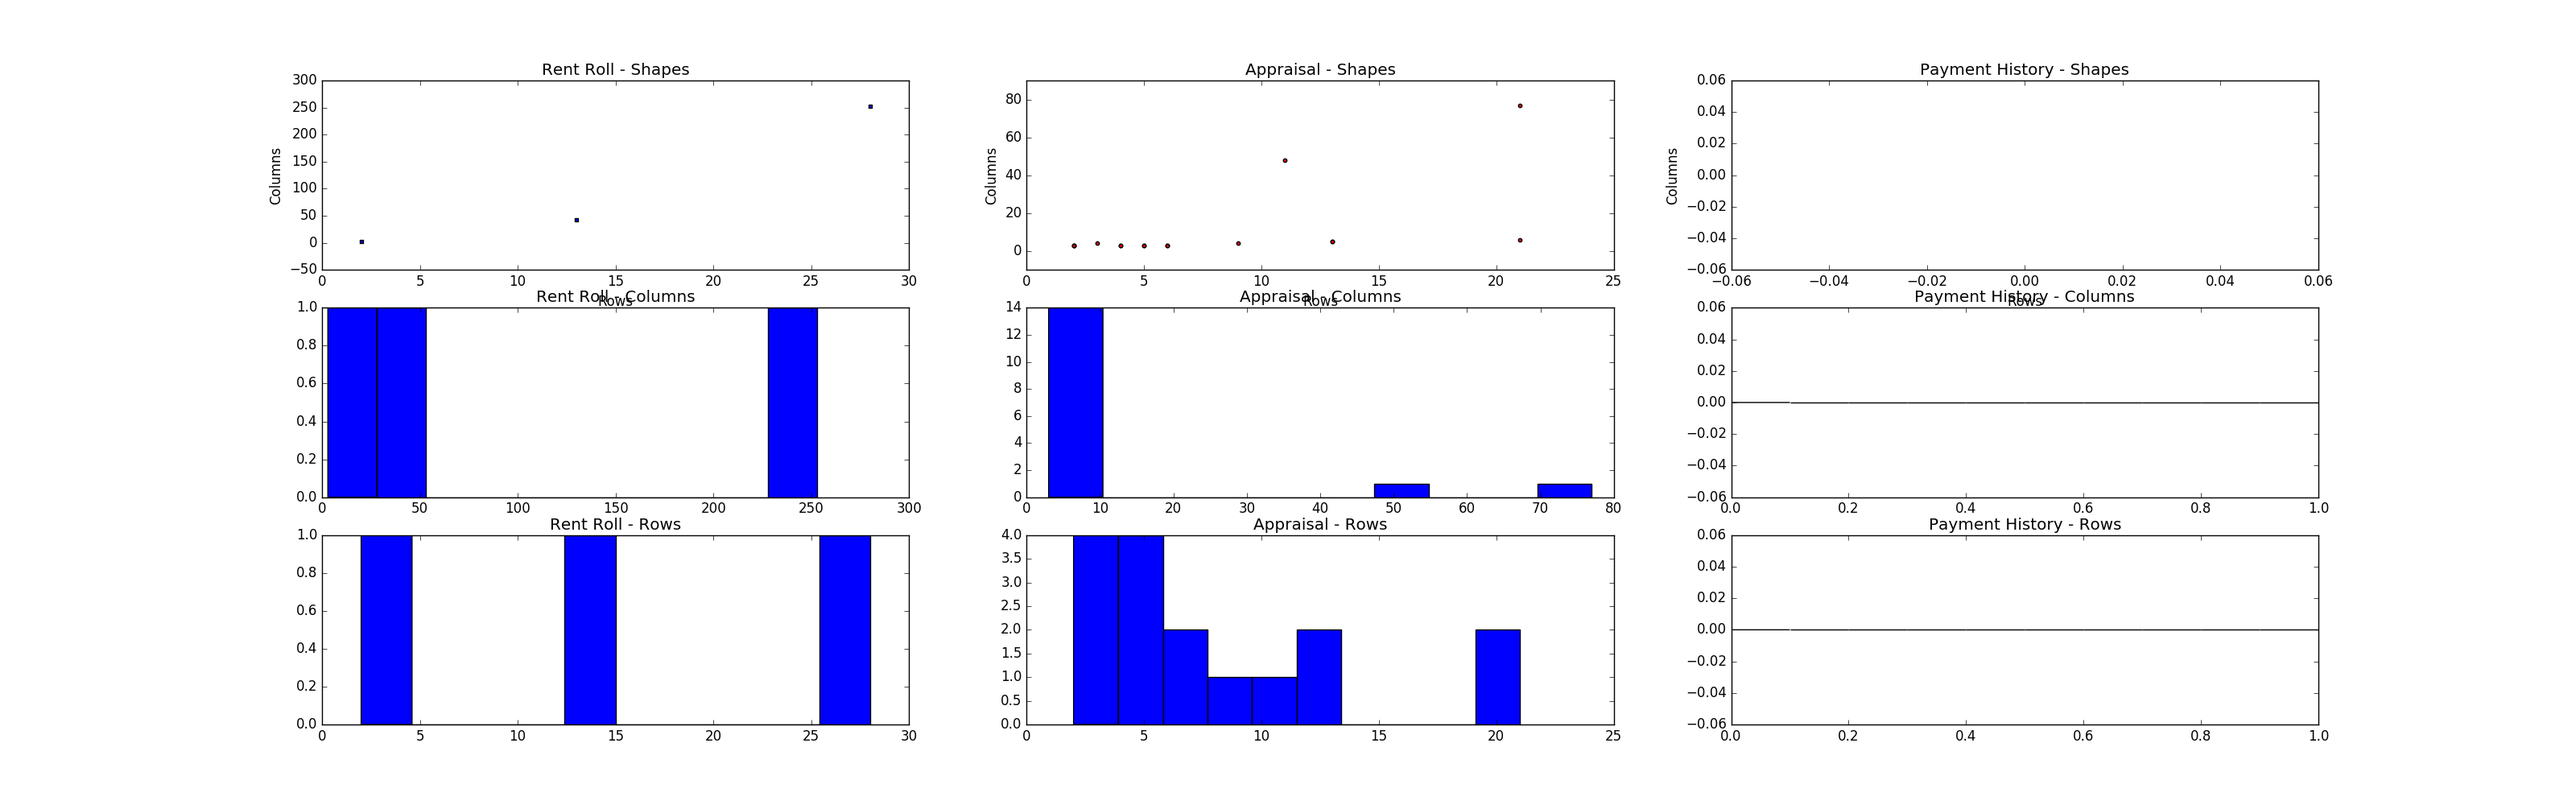
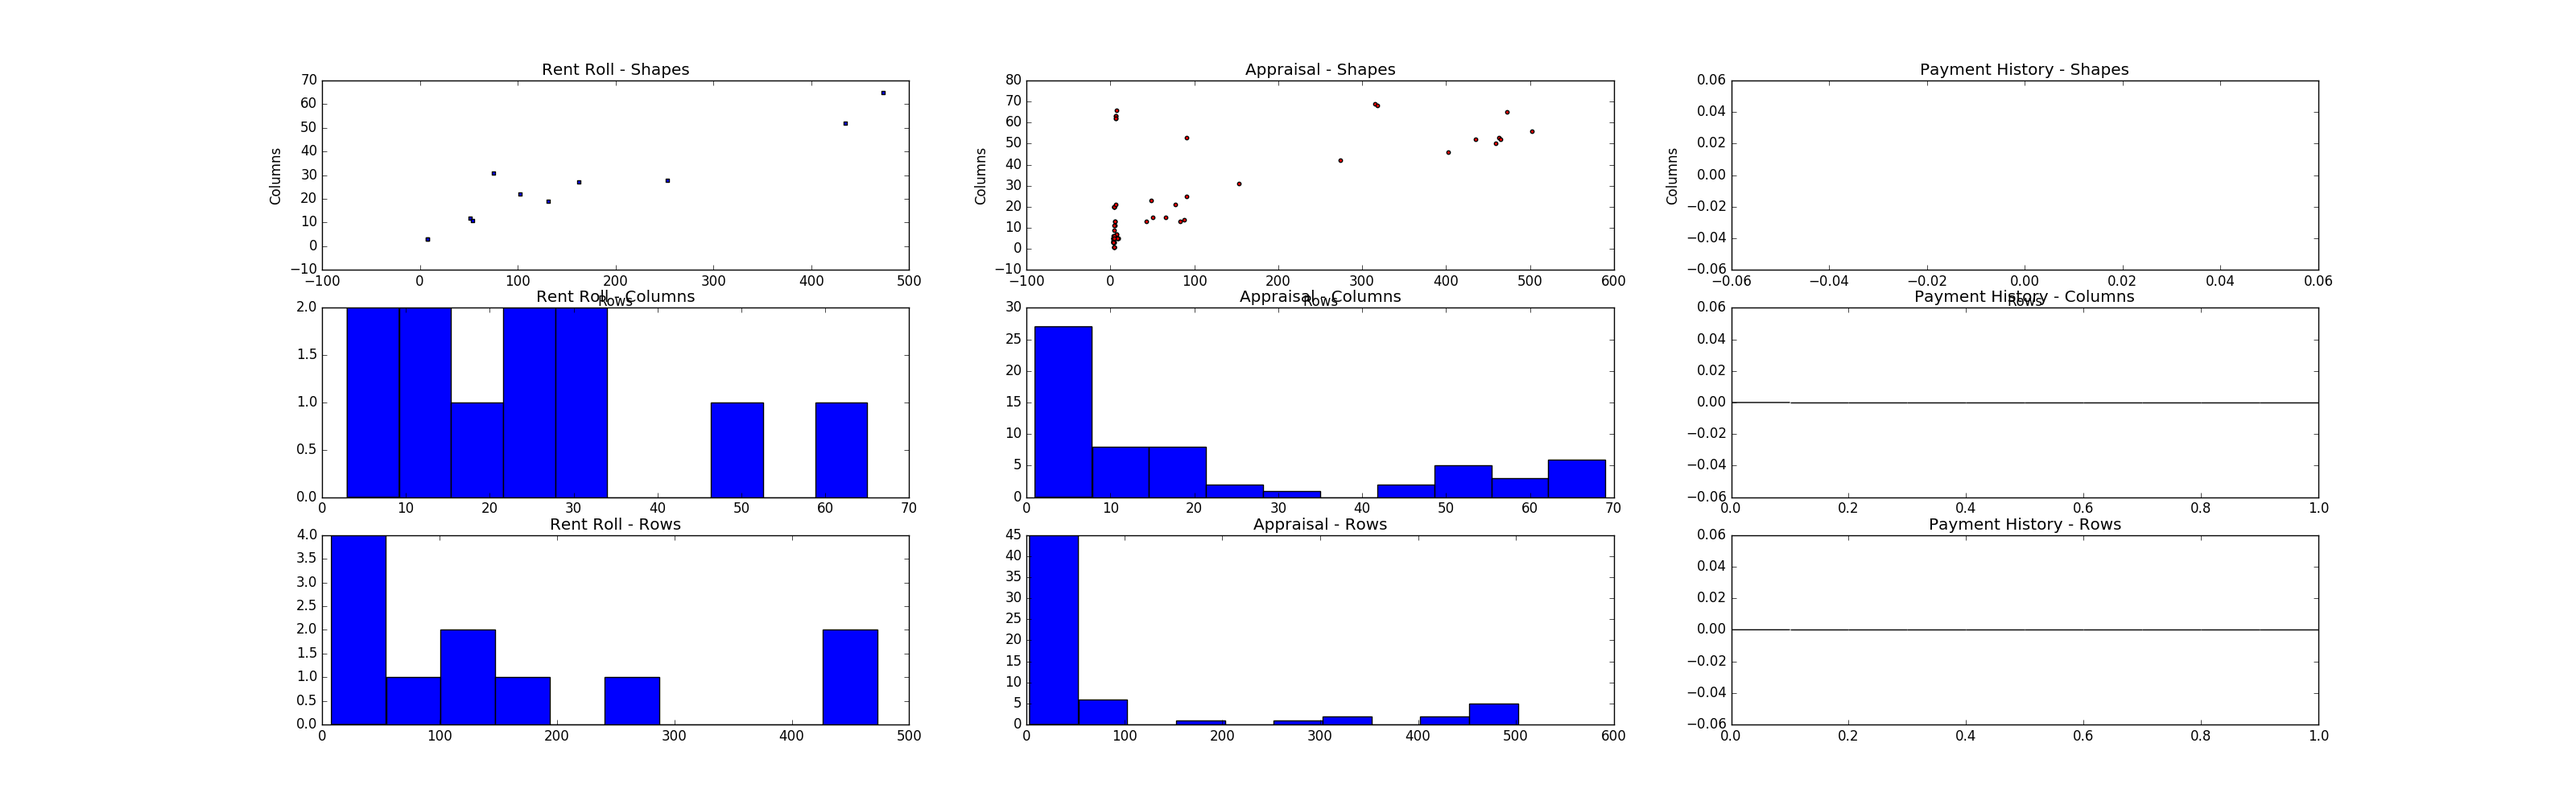
find in cell instead of row

diff --git a/test/test.html b/test/test.html
@@ -64,7 +64,7 @@
 			<td>13</td>
 		</tr>
 		<tr>
-			<td>rent roll</td>
+			<td>Rent Roll</td>
 			<td>22</td>
 			<td>23</td>
 		</tr>
@@ -160,7 +160,7 @@
 			<td>13</td>
 		</tr>
 		<tr>
-			<td>appraisal</td>
+			<td>Appraisal</td>
 			<td>22</td>
 			<td>23</td>
 		</tr>
@@ -255,7 +255,7 @@
 			<td>13</td>
 		</tr>
 		<tr>
-			<td>payment history</td>
+			<td>Payment History</td>
 			<td>22</td>
 			<td>23</td>
 		</tr>

diff --git a/tu.py b/tu.py
@@ -16,12 +16,12 @@ error_count = 0
 file_count = 0
 
 # If row contains name set the Flag to True
-def match_name( name, row_str, flag ):
-	# Don't check contains in row if flag is already true
+def match_name( name, cell_str, flag ):
+	# Don't check contains in cell if flag is already true
 	if flag:
 		return True
 	else:
-		if name in row_str:
+		if name in cell_str:
 			return True
 		else:
 			return False 
@@ -35,59 +35,66 @@ for root, dirs, files in os.walk("/Users/debajyotiroy/Ingest/Staging"):
 		if file_count >= FILES_TO_PROCESS:
 			break
 		# For a html file
-		if file.endswith(".html"):
+		if file.endswith(".html") or file.endswith(".htm"):
 			loc = os.path.join(root, file)
 			# Show progress
 			sys.stdout.write('|')
 			sys.stdout.flush()
 
 			with open(loc) as f:
-				try:
+				
 					file_count += 1
 					# extract tables from html 
 					bs_tables = BeautifulSoup(f.read(), "lxml").findAll('table')
 					for bs_table in bs_tables:
-						bs_table_string = str(bs_table)
-						if any(x in bs_table_string for x in things_of_interest):
-							# load html table as a DataFrame 
-							df = pandas.read_html(bs_table_string)
-							for table in df:
+						try:
+							bs_table_string = str(bs_table).lower()
+							
+							if any(x in bs_table_string for x in things_of_interest):
+								# load html table as a DataFrame 
+								df = pandas.read_html(bs_table_string)
 
-								# Init flags to detect table type
-								rr_flag = False
-								app_flag = False
-								ph_flag = False
+								for table in df:
+									try:
+										# Init flags to detect table type
+										rr_flag = False
+										app_flag = False
+										ph_flag = False
 
-								for index, row in table.iterrows():
-									row_str = row.to_string().lower()
+										for index, row in table.iterrows():
+											try:
+												for cell in row:
+													cell_str = str(cell)
+													rr_flag = match_name('rent roll', cell_str, rr_flag)
+													app_flag = match_name('appraisal', cell_str, app_flag)
+													ph_flag = match_name('payment history', cell_str, ph_flag)
 
-									rr_flag = match_name('rent roll', row_str, rr_flag)
-									app_flag = match_name('appraisal', row_str, app_flag)
-									ph_flag = match_name('payment history', row_str, ph_flag)
+												if rr_flag and app_flag and ph_flag:
+													break
+											except (ValueError):
+												pass
 
-									if rr_flag and app_flag and ph_flag:
-										break
-
-								# Append to the correct scatter plot data
-								if rr_flag:		
-									rrs.append(table.shape)
-								if app_flag:		
-									apps.append(table.shape)
-								if ph_flag:		
-									phs.append(table.shape)
-				except (ValueError):
-					error_count += 1
-					pass
+										# Append to the correct scatter plot data
+										if rr_flag:		
+											rrs.append(table.shape)
+										if app_flag:		
+											apps.append(table.shape)
+										if ph_flag:		
+											phs.append(table.shape)
+									except (ValueError):
+										pass
+						except (ValueError):
+							error_count += 1
 
 # Create plot arrays
-rr_x_val = [x[0] for x in rrs]
-rr_y_val = [x[1] for x in rrs]
+rr_x_val = [x[1] for x in rrs]
+rr_y_val = [x[0] for x in rrs]
 
-app_x_val = [x[0] for x in apps]
-app_y_val = [x[1] for x in apps]
+app_x_val = [x[1] for x in apps]
+app_y_val = [x[0] for x in apps]
 
-ph_x_val = [x[0] for x in phs]
-ph_y_val = [x[1] for x in phs]
+ph_x_val = [x[1] for x in phs]
+ph_y_val = [x[0] for x in phs]
 
 print('X')
 print("Files: {a:5d} , Errors : {b:5d}".format(a=file_count, b=error_count))

diff --git a/tu_find.py b/tu_find.py
@@ -5,7 +5,7 @@ import sys
 from bs4 import BeautifulSoup
 
 # CHANGE ME
-FILES_TO_PROCESS = 10000
+FILES_TO_PROCESS = 500
 
 # Init arrays for collecting scatter plot data
 thing_of_interest = sys.argv[1]
@@ -16,12 +16,12 @@ error_count = 0
 file_count = 0
 
 # If row contains name set the Flag to True
-def match_name( name, row_str, flag ):
-	# Don't check contains in row if flag is already true
+def match_name( name, cell_str, flag ):
+	# Don't check contains in cell if flag is already true
 	if flag:
 		return True
 	else:
-		if name in row_str:
+		if name in cell_str:
 			return True
 		else:
 			return False 
@@ -35,67 +35,72 @@ for root, dirs, files in os.walk("/Users/debajyotiroy/Ingest/Staging"):
 		if file_count >= FILES_TO_PROCESS:
 			break
 		# For a html file
-		if file.endswith(".html"):
+		if file.endswith(".html") or file.endswith(".htm"):
 			loc = os.path.join(root, file)
 			# Show progress
 			sys.stdout.write('|')
 			sys.stdout.flush()
 
 			with open(loc) as f:
-				try:
+				
 					file_count += 1
 					# extract tables from html 
 					bs_tables = BeautifulSoup(f.read(), "lxml").findAll('table')
 					for bs_table in bs_tables:
-						bs_table_string = str(bs_table)
-						if thing_of_interest in bs_table_string:
-							# load html table as a DataFrame 
-							df = pandas.read_html(bs_table_string)
-							for table in df:
+						try:
+							bs_table_string = str(bs_table).lower()
+							
+							if thing_of_interest in bs_table_string:
+								# load html table as a DataFrame 
+								df = pandas.read_html(bs_table_string)
 
-								# Init flags to detect table type
-								shape_flag = False
+								for table in df:
 
-								for index, row in table.iterrows():
-									row_str = row.to_string().lower()
+									# Init flags to detect table type
+									shape_flag = False
 
-									shape_flag = match_name(thing_of_interest, row_str, shape_flag)
+									for index, row in table.iterrows():
+										try:
+											for cell in row:
+												cell_str = str(cell)
+												shape_flag = match_name(thing_of_interest, cell_str, shape_flag)
 
-									if shape_flag:
-										break
+											if shape_flag:
+												break
+										except (ValueError):
+											pass
 
-								# Append to the correct scatter plot data
-								if shape_flag:		
-									shapes.append(table.shape)
-				except (ValueError):
-					error_count += 1
-					pass
+									# Append to the correct scatter plot data
+									if shape_flag:		
+										shapes.append(table.shape)
+						except (ValueError):
+							error_count += 1
 
 # Create plot arrays
-x_val = [x[0] for x in shapes]
-y_val = [x[1] for x in shapes]
+x_val = [x[1] for x in shapes]
+y_val = [x[0] for x in shapes]
 
 print('X')
 print("Files: {a:5d} , Errors : {b:5d}".format(a=file_count, b=error_count))
 
-fig = plt.figure(figsize=(32,10))
+fig = plt.figure(figsize=(32,4))
 
 # Scatter plot 
 ax0 = fig.add_subplot(131)
-ax0.scatter(x_val, y_val, s=10, c='b', marker="s", label=thing_of_interest)
-ax0.set_title(thing_of_interest+' - Shapes')
+ax0.scatter(x_val, y_val, s=10, c='b', marker="s", label='Rent Roll')
+ax0.set_title('Rent Roll - Shapes')
 ax0.set_xlabel('Rows')
 ax0.set_ylabel('Columns')
 
 # Histograms
 ax1 = fig.add_subplot(132)
 ax1.hist(y_val)
-ax1.set_title(thing_of_interest+' - Columns')
+ax1.set_title("Rent Roll - Columns")
 
 ax2 = fig.add_subplot(133)
 ax2.hist(x_val)
-ax2.set_title(thing_of_interest+' - Rows')
+ax2.set_title("Rent Roll - Rows")
 
 # Save and Show plot
-plt.savefig('tu_'+thing_of_interest+'.png')
+plt.savefig('tu.png')
 plt.show()
